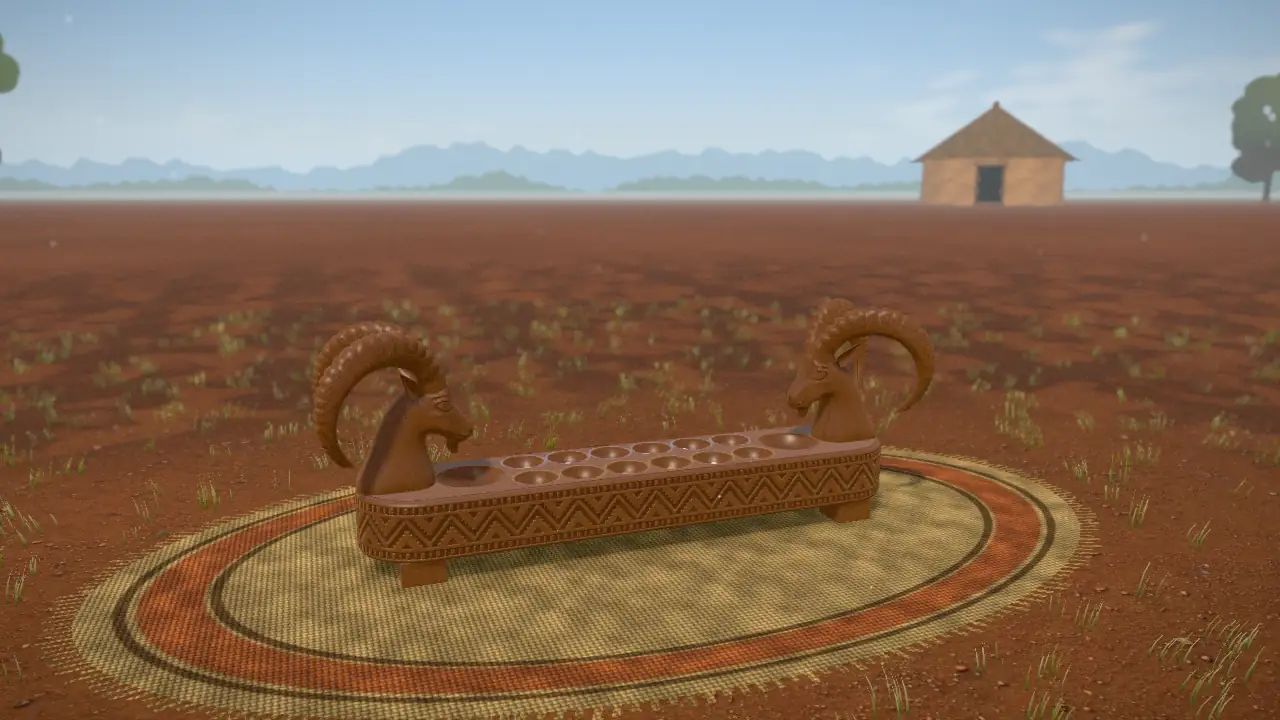
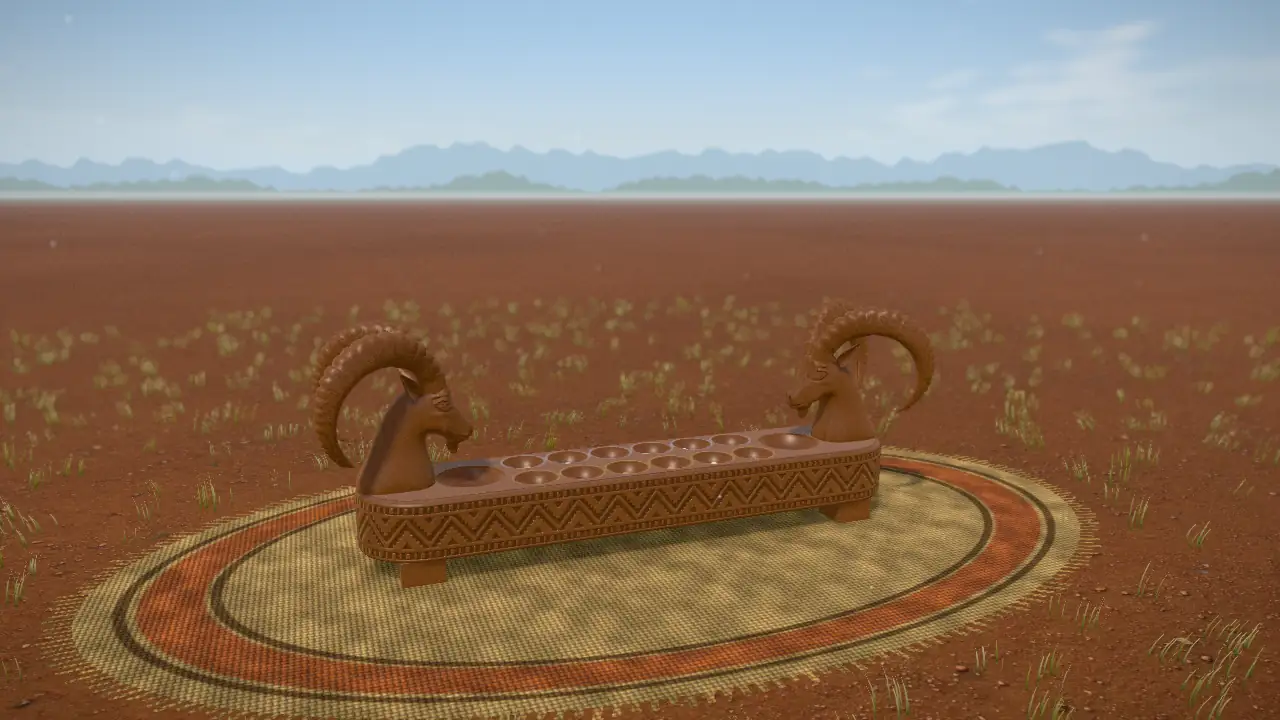
feat(web): the house and the trees leave the yard
The board has the open yard to itself: the mat, the earth and its dry
grass, the ridges and the sky. With no trees, no leaf shade falls. The
no-WebGL still is retaken.

diff --git a/apps/web/src/scene/world/leafShade.ts b/apps/web/src/scene/world/leafShade.ts
@@ -2,7 +2,8 @@ import { mulberry32 } from '@etg/gebeta-rules';
 import * as THREE from 'three';
 
 /**
- * Leaf shade: the yard's trees throw moving, dappled shade on the ground around the board. The
+ * Leaf shade, for a yard with trees in it (there are none at present, and `LEAF_SHADE_AMOUNT`
+ * below is 0): trees throw moving, dappled shade on the ground around the board. The
  * board itself sits in a sunlit clearing, so the cups and stones are always in plain light; the
  * shade begins beyond the mat and moves as the branches sway.
  *
@@ -58,6 +59,8 @@ export const LEAF_SHADE_GLSL = /* glsl */ `
   uniform sampler2D uLeaf;
   uniform float uLeafTime;
   const vec3 LEAF_SHADE_TINT = vec3(0.6, 0.65, 0.78);
+  // No trees stand in the yard now, so no shade falls; set to 1.0 when they do.
+  const float LEAF_SHADE_AMOUNT = 0.0;
   float leafShade(vec2 p) {
     vec2 sway = vec2(sin(uLeafTime * 0.45), cos(uLeafTime * 0.33)) * 0.4;
     float a = texture2D(uLeaf, (p + sway) / 19.0).r;
@@ -66,7 +69,7 @@ export const LEAF_SHADE_GLSL = /* glsl */ `
     // A sunlit clearing round the board, shade beyond it, and open ground again past the trees' reach.
     float r = length(p * vec2(1.0, 1.4));
     float ring = smoothstep(14.0, 25.0, r) * (1.0 - smoothstep(80.0, 150.0, r));
-    return canopy * ring;
+    return canopy * ring * LEAF_SHADE_AMOUNT;
   }
 `;
 

diff --git a/apps/web/src/scene/world/Yard.tsx b/apps/web/src/scene/world/Yard.tsx
@@ -1,13 +1,11 @@
 import { Grass } from './Grass';
 import { Ground } from './Ground';
-import { Hut } from './Hut';
 import { Mat } from './Mat';
-import { Trees } from './Trees';
 
 /**
  * The place the game is played: a highland homestead's yard. The board lies on a woven mat on
- * packed earth; dry grass grows round the mat; the round house stands across the yard, and
- * acacia and eucalyptus beyond. Nothing else is set out: the board has the yard to itself.
+ * packed earth and dry grass grows round the mat. Nothing else stands in it: no house, no
+ * trees, nothing set out. The board has the open yard, the hills and the sky to itself.
  * These parts load textures, so they mount inside the scene's Suspense boundary; the light, the
  * sky and the air are in `Daylight`.
  */
@@ -17,8 +15,6 @@ export function Yard() {
       <Ground />
       <Mat />
       <Grass />
-      <Hut />
-      <Trees />
     </>
   );
 }

diff --git a/docs/design/scene/progress/README.md b/docs/design/scene/progress/README.md
@@ -217,7 +217,7 @@ How each kind of move looks is in `scene/stoneMotion.ts`, with tests.
 
 The owner's four points of 2026-11-10 after seeing part 6.
 
-- **The yard is cleared.** The coffee pot, the cups and the basket are gone; the board has the mat and the yard to itself. The house, the trees and the ridges stay as the setting.
+- **The yard is cleared.** The coffee pot, the cups and the basket went first; then, at the owner's word, the house and the trees, and with the trees their shade on the ground. What is left is the board on its mat, the earth and its dry grass, the ridges and the sky ([p7-yard.jpg](p7-yard.jpg), which is also the no-WebGL still). The modules for the house, the trees, the props and the leaf shade are still in `scene/world/`; nothing mounts them.
 - **The wood reads as wood** (`scene/board/woodMaterial.ts`). It is walnut-brown rather than orange. It has open pores, short dark dashes lying along the grain. The grain has fine relief, worked out from the photograph itself, so no normal map is downloaded. The finish is a hand-rubbed oil, satin and uneven, with the soft sheen wood has at a grazing angle. The carved band's cuts and the cups' depths are darker.
 - **The heads are carved more boldly** (`sculpt/sdf.ts`), after images 07 and 11. The eye is a full almond with heavy lids, a crease and a brow; the mouth line, the lips and the nostrils' wings are cut deeper; the beard and the forehead have chiselled locks; the ear is a broad hollowed leaf. Shade is baked into every cut when the head is built, so the carving shows in any light. A head is now 16,000 triangles.
 - **The horns are massive** (`sculpt/horn.ts`): deeper and wider than the traced stations along their length, with a squared section, and still slim at the root so nothing of them reaches down the face. Their sides carry the fine cut lines of the carving and one long line down their length.
@@ -227,7 +227,7 @@ The owner's four points of 2026-11-10 after seeing part 6.
 |---|---|---|---|
 | [p7-head-before.jpg](p7-head-before.jpg) | [p7-head-after.jpg](p7-head-after.jpg) | [p7-play.jpg](p7-play.jpg) | [p7-play-turned.jpg](p7-play-turned.jpg) |
 
-**Checked:** typecheck, 211 unit tests, 36 of 36 end-to-end tests, the download at 1,684.6 KB gzip of the 2,929.7 KB budget, and a scripted drag, zoom and reset in a live game.
+**Checked:** typecheck, 211 unit tests, 36 of 36 end-to-end tests, the download at 1,680.2 KB gzip of the 2,929.7 KB budget, and a scripted drag, zoom and reset in a live game.
 
 **Not judged here:** how the drag and the pinch feel under a finger, and the frame rate with the heavier heads, both of which want a real phone.
 
